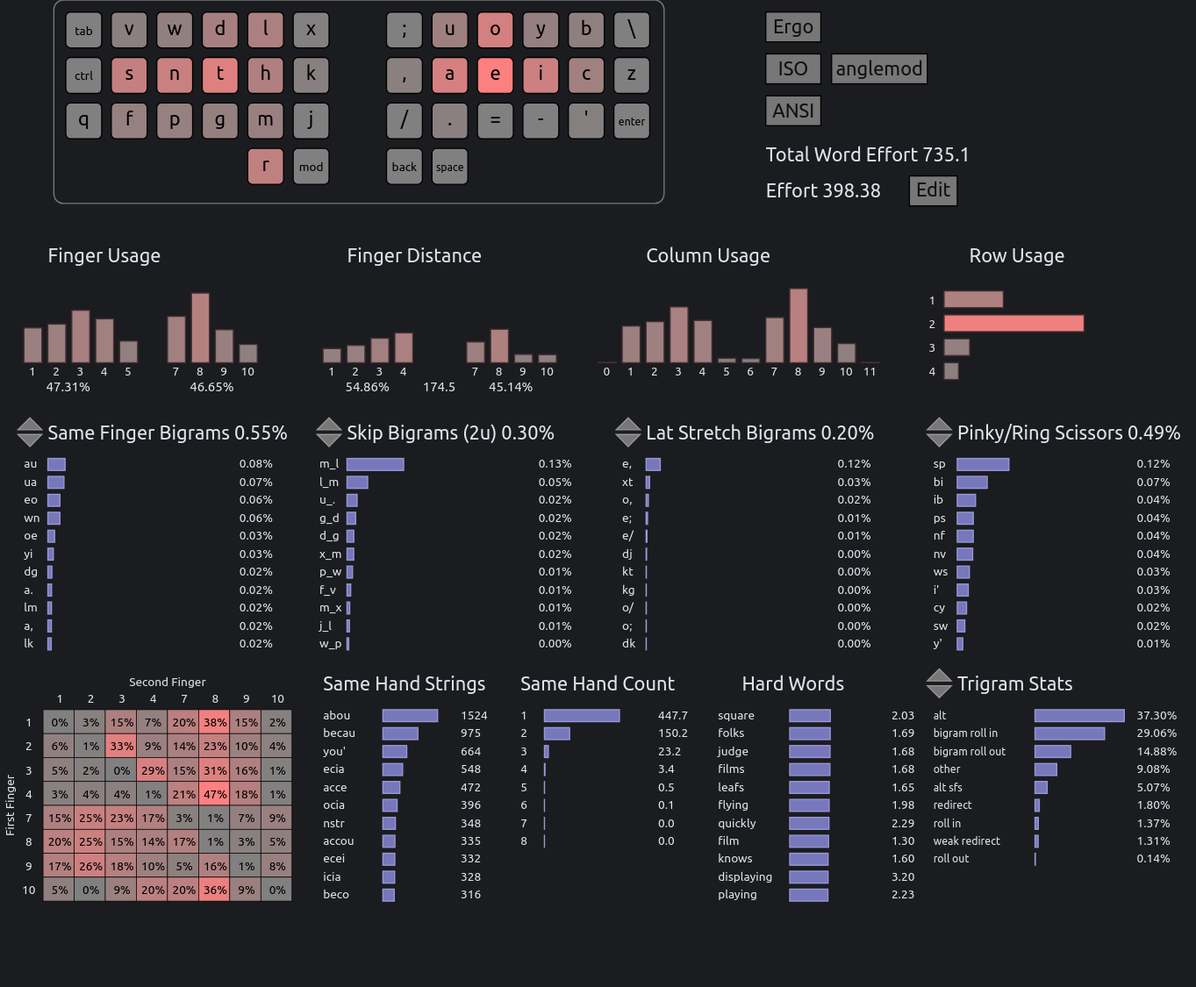
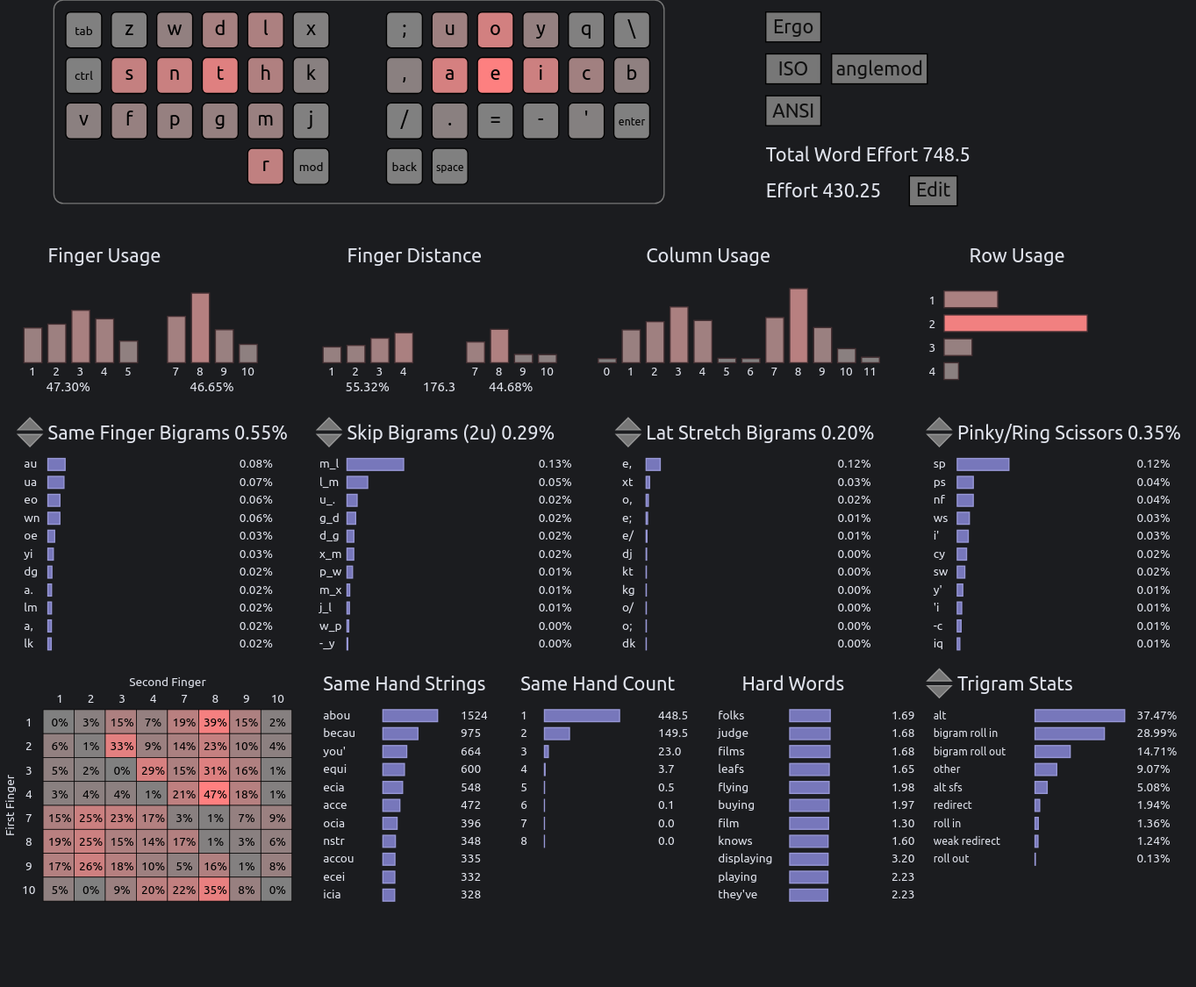
B/V to pinky home lateral, Q/Z to pinky upper row

diff --git a/README.md b/README.md
@@ -19,8 +19,8 @@ days (start Friday and use weekend), to unlock all letters in [KeyBr] training.
 
 ## Layout
 
-      b y o u ; x l d w v
-    z c i e a , k h t n s q
+      q y o u ; x l d w z
+    b c i e a , k h t n s v
       ' - = . / j m g p f
                 r
 
@@ -28,7 +28,7 @@ days (start Friday and use weekend), to unlock all letters in [KeyBr] training.
 
 * [Rationale](#rationale)
   * [Deviation: PF and WV](#deviation-pf-and-wv)
-  * [Deviation: Q and Z](#deviation-q-and-z)
+  * [Deviation: B and V](#deviation-b-and-v)
 * [Performance](#performance)
   * [Cyanophage analyzer](#cyanophage-analyzer)
   * [KeySolve analyzer](#keysolve-analyzer)
@@ -43,7 +43,6 @@ days (start Friday and use weekend), to unlock all letters in [KeyBr] training.
 ## Rationale
 
 * Q and Z are split apart onto different hands for balance and symmetry.
-  Q is placed on the consonant hand (like Engram) to avoid one-handed QU.
 
 * Apostrophe is away (on a different finger entirely) from YOU and I so
   it can be typed without same-finger bigrams such as `you'd` and `I'd`.
@@ -88,48 +87,57 @@ I'm _so glad_ this experiment worked out because it makes the layout a lot more
 comfortable for me in practice and it would also further reduce the barrier to
 entry for others seeking to switch over to Enthium from the Engrammer layout. :)
 
-### Deviation: Q and Z
+### Deviation: B and V
 
-Q and Z are swapped to be like Engram (with Q typed by the right pinky finger)
-in order to avoid one-handed QU sequences (in favor of hand alternation) which
-overwork the left pinky finger during [KeyBr] training and actual usage alike.
+B and V are rotated out from the upper row to the home row lateral in order to
+avoid reaching up with short pinky fingers or those [weakened by convention](
+https://reddit.com/r/KeyboardLayouts/comments/1fy8nve/_/lqulnww/ ).  Their keys
+are reassigned to the least frequent letters in the English language: Q and Z.
 
-This deviation incurred a modest increase in Oxey's analyzer's Total Redirects
-from 0.350% to 3.389%, along with a decrease in Onehands from 2.206% to 2.091%,
-and a significant increase in the Total Rolls score from 43.816% up to 44.055%.
-Similarly, Cyanophage's Total Word Effort score decreased from 735.9 to 735.1,
-along with a negligible increase in the Effort score from 398.34 up to 398.38,
-and with similarly modest differences in the Trigram Stats score distribution.
-In contrast, there was no change at all in the KeySolve analyzer's statistics!
+In the Cyanophage analyzer, this change reduces Pinky/Ring Scissors from 0.49%
+down to 0.35% (a massive drop!) and Skip Bigrams (2u) from 0.30% down to 0.29%.
+The other analyzers don't fully comprehend the placement of lateral pinky keys,
+as explained in the note at the top of each analyzer's respective subheading,
+but Oxey's analyzer reports a notable reduction in SFBs from 0.829% to 0.818%.
 
 ## Performance
 
 ### [Cyanophage analyzer][cNT]
 
+> **NOTE:** This analyzer currently has a limitation where it only supports
+> placing a letter on the left thumb and not on the right, so this layout is
+> mirrored horizontally for analysis.  Mirroring doesn't affect the results.
+
 ![Screenshot](stats/enthium/cyanophage.png)
 
 Overall stats:
-* Total Word Effort: 735.1
-* Effort:            398.38
+* Total Word Effort: 748.5
+* Effort:            430.25
 
 Finger usage:
 * Same Finger Bigrams: 0.55%
-* Skip Bigrams (2u):   0.30%
+* Skip Bigrams (2u):   0.29%
 * Lat Stretch Bigrams: 0.20%
-* Pinky/Ring Scissors: 0.49%
+* Pinky/Ring Scissors: 0.35%
 
 Trigram stats:
-* alt:             37.30%
-* bigram roll in:  29.06%
-* bigram roll out: 14.88%
-* other:           9.08%
-* alt sfs:         5.07%
-* redirect:        1.80%
-* roll in:         1.37%
-* weak redirect:   1.31%
-* roll out:        0.14%
+* alt:             37.47%
+* bigram roll in:  28.99%
+* bigram roll out: 14.71%
+* other:           9.07%
+* alt sfs:         5.08%
+* redirect:        1.94%
+* roll in:         1.36%
+* weak redirect:   1.24%
+* roll out:        0.13%
 
 ### [KeySolve analyzer](https://clemenpine.github.io/keysolve-web/)
+
+> **NOTE:** This analyzer currently doesn't support placing letters on lateral
+> home row pinky keys such as the traditional CapsLock key and the apostrophe,
+> so these results may not be accurate.  For instance, the SFB percentage here
+> assumes that R B V are all typed by the thumb whereas they're all really on
+> different fingers: with R on right thumb, B on left pinky, V on right pinky.
 
 ![Screenshot](stats/enthium/keysolve1.png)
 ![Screenshot](stats/enthium/keysolve2.png)
@@ -137,74 +145,91 @@ Trigram stats:
 
 Overall stats:
 
-    BIGRAMS     SFB: 0.83%      LSB: 0.41%      HSB: 5.64%      FSB: 0.37%
-    SKIPGRAMS   SFS: 6.56%      LSS: 0.85%      HSS: 5.50%      FSS: 0.48%
-    TRIGRAMS    ALT: 40.37%     ROL: 41.16%     ONE: 2.70%      RED: 1.90%
+    BIGRAMS     SFB: 0.98%      LSB: 0.41%      HSB: 4.82%      FSB: 0.36%
+    SKIPGRAMS   SFS: 6.98%      LSS: 0.85%      HSS: 4.70%      FSS: 0.42%
+    TRIGRAMS    ALT: 41.24%     ROL: 40.70%     ONE: 2.47%      RED: 1.66%
 
 Finger usage:
 
-    LEFT        LI: 13.77%      LM: 20.17%      LR: 8.84%       LP: 4.40%
-    RIGHT       RI: 13.12%      RM: 14.59%      RR: 10.60%      RP: 8.95%
-    TOTAL               LH: 47.18%                      RH: 52.82%
+    LEFT        LI: 13.77%      LM: 20.17%      LR: 8.84%       LP: 3.05%
+    RIGHT       RI: 13.12%      RM: 14.59%      RR: 10.60%      RP: 7.94%
+    TOTAL               LH: 45.83%                      RH: 54.17%
 
 Custom source for copy/paste:
 
-    b y o u ; x l d w v
+    q y o u ; x l d w z
     c i e a , k h t n s
     ' - = . / j m g p f
-    r z q
+    r b v
 
 ### [Oxey's analyzer](https://oxey.dev/playground/index.html)
+
+> **NOTE:** This analyzer currently doesn't support placing letters on lateral
+> home row pinky keys such as the traditional CapsLock key and the apostrophe,
+> so these results may not be accurate.  For instance, the SFB percentage here
+> assumes that B and V are typed by the left thumb whereas they're really on
+> different fingers: with B typed by the left pinky and V by the right pinky.
 
 ![Screenshot](stats/enthium/oxey.png)
 
 Overall stats:
-* Sfb:              0.829%
-* Dsfb:             6.534%
+* Sfb:              0.818%
+* Dsfb:             6.236%
 * Lsb:              0.319%
-* Inrolls:          29.183%
-* Outrolls:         14.872%
-* Total Rolls:      44.055%
-* Onehands:         2.091%
-* Alternates:       34.062%
-* Alternates (sfs): 8.035%
-* Total Alternates: 42.096%
-* Redirects:        2.146%
-* BadRedirects:     1.243%
-* Total Redirects:  3.389%
-* Other:            8.369%
+* Inrolls:          29.408%
+* Outrolls:         15.867%
+* Total Rolls:      45.274%
+* Onehands:         2.343%
+* Alternates:       31.891%
+* Alternates (sfs): 7.270%
+* Total Alternates: 39.161%
+* Redirects:        3.838%
+* BadRedirects:     1.024%
+* Total Redirects:  4.862%
+* Other:            8.359%
 * Invalid:          0.001%
 
 Finger usage:
 
-    finger 0:   5.02%   finger 9:       9.56%
+    finger 0:   3.63%   finger 9:       8.60% 
     finger 1:   9.25%   finger 8:       10.65%
     finger 2:   19.30%  finger 7:       14.56%
     finger 3:   13.11%  finger 6:       12.33%
 
-    Left hand:   46.68% Right hand:     47.10%
+    Left hand:   45.29% Right hand:     46.14%
     Left center: 1.211% Right center:   1.189%
 
     Home keys usage: 56.37%
 
 Sfb% per finger:
 
-    finger 0:   0.021%  finger 9:       0.028%
+    finger 0:   0.011%  finger 9:       0.024%
     finger 1:   0.071%  finger 8:       0.100%
     finger 2:   0.122%  finger 7:       0.051%
     finger 3:   0.322%  finger 6:       0.114%
 
 ### Comparison
 
+> **NOTE:** Oxey's analyzer currently doesn't support placing letters on lateral
+> home row pinky keys such as the traditional CapsLock key and the apostrophe,
+> so these results may not be accurate.  For instance, the SFB percentage here
+> assumes that B and V are typed by the left thumb whereas they're really on
+> different fingers: with B typed by the left pinky and V by the right pinky.
+> Instead, consider the [Cyanophage analyzer's results](#cyanophage-analyzer)
+> because it takes into account lateral pinky keys and one thumb letter key.
+
 The [keyboard layout community][rKL] commonly recommends [Pascal Getreuer's
 guide and comparison table][PGt] as a starting point for layout exploration,
 and you'll see that Enthium is among the best (statistically) layouts there:
 
-* 0.829% SFBs -- second place; same as Recurva 🥈
-* 0.319% LSBs -- first place; beats entire table! 🥇
-* 44.055% rolls -- beats MTGAP, Graphite, BEAKL-19, Engram, Dvorak, Halmak
-* 3.389% redirects -- surpassed only by Nerps, Graphite, Gallium, BEAKL-19
-* 5.35% pinky off -- beats Engram and Halmak
+* 0.818% SFBs -- second place; only surpassed by Focal 🥈
+* 0.319% LSBs -- first place; beats the entire table! 🥇
+* 45.274% rolls -- beats Nerps, Gallium, MTGAP, Graphite, Dvorak, Halmak, etc.
+* 4.862% redirects -- beats MTGAP, Sturdy, Recurva, APTv3, Canary, Colemak, etc.
+* 2.80% pinky off (excluding lateral) -- beats Graphite, Canary, Gallium, MTGAP, etc.
+  * `Q` (0.10%) + `'` (0.48%) + `Z` (0.10%) + `F` (2.12%)
+* 5.35% pinky off (including lateral) -- beats Engram and Halmak; surpassed by rest
+  * `Q` (0.10%) + `B` (1.49%) + `'` (0.48%) + `Z` (0.10%) + `V` (1.06%) + `F` (2.12%)
 
 [rKL]: https://www.reddit.com/r/KeyboardLayouts/
 [PGt]: https://getreuer.info/posts/keyboards/alt-layouts/index.html#which-alt-keyboard-layout-should-i-learn
@@ -219,79 +244,79 @@ For completeness, I've tabulated all [statistics for this and related layouts]( 
 
 | Analyzer   | Category  | Statistic           | [Enthium][cNT] | [Promethium][cPM] | [Engrammer][cNG] | [Dvorak][cDV] | [Colemak-DH][cCD] |
 | ---------- | --------- | ------------------- | -------------- | ----------------- | ---------------- | ------------- | ----------------- |
-| Oxey's     | Bigrams   | SFB                 | *0.829%*       | 0.868%            | 1.511%           | 2.779%        | 1.367%            |
-| Oxey's     | Bigrams   | DSFB                | 6.534%         | 6.761%            | 7.620%           | 6.979%        | 8.767%            |
-| Oxey's     | Bigrams   | LSB                 | *0.319%*       | 0.404%            | 0.671%           | 1.255%        | 1.975%            |
-| Oxey's     | Trigrams  | Inrolls             | 29.183%        | 29.333%           | 28.273%          | 23.820%       | 25.173%           |
-| Oxey's     | Trigrams  | Outrolls            | 14.872%        | 14.526%           | 14.050%          | 15.104%       | 20.940%           |
-| Oxey's     | Trigrams  | Total Rolls         | *44.055%*      | 43.858%           | 42.323%          | 38.924%       | 46.113%           |
-| Oxey's     | Trigrams  | Onehands            | 2.091%         | 2.189%            | 2.146%           | 0.624%        | 2.484%            |
-| Oxey's     | Trigrams  | Alternates          | 34.062%        | 33.770%           | 32.483%          | 35.769%       | 22.913%           |
-| Oxey's     | Trigrams  | Alternates (SFS)    | 8.035%         | 8.205%            | 8.752%           | 8.787%        | 7.461%            |
-| Oxey's     | Trigrams  | Total Alternates    | 42.096%        | 41.974%           | 41.235%          | 44.556%       | 30.375%           |
-| Oxey's     | Trigrams  | Redirects           | 2.146%         | 2.273%            | 3.103%           | 2.639%        | 9.081%            |
-| Oxey's     | Trigrams  | BadRedirects        | 1.243%         | 1.236%            | 1.386%           | 0.818%        | 1.498%            |
-| Oxey's     | Trigrams  | Total Redirects     | *3.389%*       | 3.509%            | 4.489%           | 3.458%        | 10.579%           |
-| Oxey's     | Trigrams  | Other               | 8.369%         | 8.468%            | 9.806%           | 12.437%       | 9.202%            |
+| Oxey's     | Bigrams   | SFB                 | 0.818%         | 0.868%            | 1.511%           | 2.779%        | 1.367%            |
+| Oxey's     | Bigrams   | DSFB                | 6.236%         | 6.761%            | 7.620%           | 6.979%        | 8.767%            |
+| Oxey's     | Bigrams   | LSB                 | 0.319%         | 0.404%            | 0.671%           | 1.255%        | 1.975%            |
+| Oxey's     | Trigrams  | Inrolls             | 29.408%        | 29.333%           | 28.273%          | 23.820%       | 25.173%           |
+| Oxey's     | Trigrams  | Outrolls            | 15.867%        | 14.526%           | 14.050%          | 15.104%       | 20.940%           |
+| Oxey's     | Trigrams  | Total Rolls         | 45.274%        | 43.858%           | 42.323%          | 38.924%       | 46.113%           |
+| Oxey's     | Trigrams  | Onehands            | 2.343%         | 2.189%            | 2.146%           | 0.624%        | 2.484%            |
+| Oxey's     | Trigrams  | Alternates          | 31.891%        | 33.770%           | 32.483%          | 35.769%       | 22.913%           |
+| Oxey's     | Trigrams  | Alternates (SFS)    | 7.270%         | 8.205%            | 8.752%           | 8.787%        | 7.461%            |
+| Oxey's     | Trigrams  | Total Alternates    | 39.161%        | 41.974%           | 41.235%          | 44.556%       | 30.375%           |
+| Oxey's     | Trigrams  | Redirects           | 3.838%         | 2.273%            | 3.103%           | 2.639%        | 9.081%            |
+| Oxey's     | Trigrams  | BadRedirects        | 1.024%         | 1.236%            | 1.386%           | 0.818%        | 1.498%            |
+| Oxey's     | Trigrams  | Total Redirects     | 4.862%         | 3.509%            | 4.489%           | 3.458%        | 10.579%           |
+| Oxey's     | Trigrams  | Other               | 8.359%         | 8.468%            | 9.806%           | 12.437%       | 9.202%            |
 | Oxey's     | Trigrams  | Invalid             | 0.001%         | 0.001%            | 0.001%           | 0.001%        | 1.248%            |
-| Oxey's     | Usage     | Finger 0            | 5.02%          | 9.56%             | 6.58%            | 8.50%         | 8.12%             |
+| Oxey's     | Usage     | Finger 0            | 3.63%          | 9.56%             | 6.58%            | 8.50%         | 8.12%             |
 | Oxey's     | Usage     | Finger 1            | 9.25%          | 10.65%            | 9.21%            | 8.72%         | 8.04%             |
 | Oxey's     | Usage     | Finger 2            | 19.30%         | 14.56%            | 19.47%           | 12.99%        | 11.55%            |
 | Oxey's     | Usage     | Finger 3            | 13.11%         | 12.33%            | 13.35%           | 14.95%        | 19.19%            |
 | Oxey's     | Usage     | Finger 6            | 12.33%         | 13.28%            | 16.04%           | 16.33%        | 18.88%            |
 | Oxey's     | Usage     | Finger 7            | 14.56%         | 19.77%            | 14.93%           | 13.73%        | 15.60%            |
 | Oxey's     | Usage     | Finger 8            | 10.65%         | 9.01%             | 10.31%           | 13.84%        | 10.11%            |
-| Oxey's     | Usage     | Finger 9            | 9.56%          | 4.62%             | 9.90%            | 10.59%        | 7.77%             |
-| Oxey's     | Usage     | Left hand           | 46.68%         | 47.10%            | 48.61%           | 45.16%        | 46.89%            |
-| Oxey's     | Usage     | Right hand          | 47.10%         | 46.68%            | 51.18%           | 54.49%        | 52.36%            |
+| Oxey's     | Usage     | Finger 9            | 8.60%          | 4.62%             | 9.90%            | 10.59%        | 7.77%             |
+| Oxey's     | Usage     | Left hand           | 45.29%         | 47.10%            | 48.61%           | 45.16%        | 46.89%            |
+| Oxey's     | Usage     | Right hand          | 46.14%         | 46.68%            | 51.18%           | 54.49%        | 52.36%            |
 | Oxey's     | Usage     | Left center         | 1.211%         | 1.189%            | 1.765%           | 9.208%        | 4.592%            |
 | Oxey's     | Usage     | Right center        | 1.189%         | 1.384%            | 1.294%           | 7.257%        | 3.393%            |
 | Oxey's     | Usage     | Home keys           | 56.37%         | 56.37%            | 56.37%           | 56.70%        | 62.31%            |
-| Oxey's     | SFB%      | Finger 0            | 0.021%         | 0.028%            | 0.012%           | 0.020%        | 0.041%            |
+| Oxey's     | SFB%      | Finger 0            | 0.011%         | 0.028%            | 0.012%           | 0.020%        | 0.041%            |
 | Oxey's     | SFB%      | Finger 1            | 0.071%         | 0.100%            | 0.089%           | 0.028%        | 0.047%            |
 | Oxey's     | SFB%      | Finger 2            | 0.122%         | 0.051%            | 0.230%           | 0.253%        | 0.186%            |
 | Oxey's     | SFB%      | Finger 3            | 0.322%         | 0.114%            | 0.591%           | 1.075%        | 0.219%            |
 | Oxey's     | SFB%      | Finger 6            | 0.114%         | 0.339%            | 0.380%           | 0.433%        | 0.388%            |
 | Oxey's     | SFB%      | Finger 7            | 0.051%         | 0.185%            | 0.053%           | 0.494%        | 0.341%            |
 | Oxey's     | SFB%      | Finger 8            | 0.100%         | 0.040%            | 0.098%           | 0.256%        | 0.137%            |
-| Oxey's     | SFB%      | Finger 9            | 0.028%         | 0.011%            | 0.058%           | 0.220%        | 0.007%            |
-| KeySolve   | Bigrams   | SFB                 | 0.83%          | 0.94%             | 1.56%            | 2.62%         | 1.49%             |
+| Oxey's     | SFB%      | Finger 9            | 0.024%         | 0.011%            | 0.058%           | 0.220%        | 0.007%            |
+| KeySolve   | Bigrams   | SFB                 | 0.98%          | 0.94%             | 1.56%            | 2.62%         | 1.49%             |
 | KeySolve   | Bigrams   | LSB                 | 0.41%          | 0.45%             | 0.98%            | 1.17%         | 2.21%             |
-| KeySolve   | Bigrams   | HSB                 | 5.64%          | 6.04%             | 3.02%            | 6.11%         | 5.93%             |
-| KeySolve   | Bigrams   | FSB                 | 0.37%          | 0.26%             | 0.30%            | 0.14%         | 0.37%             |
-| KeySolve   | Skipgrams | SFS                 | 6.56%          | 7.02%             | 7.50%            | 7.00%         | 7.95%             |
+| KeySolve   | Bigrams   | HSB                 | 4.82%          | 6.04%             | 3.02%            | 6.11%         | 5.93%             |
+| KeySolve   | Bigrams   | FSB                 | 0.36%          | 0.26%             | 0.30%            | 0.14%         | 0.37%             |
+| KeySolve   | Skipgrams | SFS                 | 6.98%          | 7.02%             | 7.50%            | 7.00%         | 7.95%             |
 | KeySolve   | Skipgrams | LSS                 | 0.85%          | 0.93%             | 1.34%            | 4.48%         | 1.75%             |
-| KeySolve   | Skipgrams | HSS                 | 5.50%          | 6.11%             | 6.91%            | 8.56%         | 6.49%             |
-| KeySolve   | Skipgrams | FSS                 | 0.48%          | 0.78%             | 0.81%            | 1.22%         | 0.78%             |
-| KeySolve   | Trigrams  | ALT                 | 40.37%         | 40.37%            | 39.59%           | 41.70%        | 27.58%            |
-| KeySolve   | Trigrams  | ROL                 | 41.16%         | 40.84%            | 39.35%           | 37.19%        | 42.78%            |
-| KeySolve   | Trigrams  | ONE                 | 2.70%          | 2.66%             | 2.65%            | 0.43%         | 2.45%             |
-| KeySolve   | Trigrams  | RED                 | 1.90%          | 1.78%             | 2.65%            | 2.25%         | 6.74%             |
+| KeySolve   | Skipgrams | HSS                 | 4.70%          | 6.11%             | 6.91%            | 8.56%         | 6.49%             |
+| KeySolve   | Skipgrams | FSS                 | 0.42%          | 0.78%             | 0.81%            | 1.22%         | 0.78%             |
+| KeySolve   | Trigrams  | ALT                 | 41.24%         | 40.37%            | 39.59%           | 41.70%        | 27.58%            |
+| KeySolve   | Trigrams  | ROL                 | 40.70%         | 40.84%            | 39.35%           | 37.19%        | 42.78%            |
+| KeySolve   | Trigrams  | ONE                 | 2.47%          | 2.66%             | 2.65%            | 0.43%         | 2.45%             |
+| KeySolve   | Trigrams  | RED                 | 1.66%          | 1.78%             | 2.65%            | 2.25%         | 6.74%             |
 | KeySolve   | Usage     | LI                  | 13.77%         | 13.91%            | 13.91%           | 14.56%        | 18.82%            |
 | KeySolve   | Usage     | LM                  | 20.17%         | 20.92%            | 20.30%           | 13.96%        | 10.18%            |
 | KeySolve   | Usage     | LR                  | 8.84%          | 8.70%             | 8.83%            | 9.55%         | 7.83%             |
-| KeySolve   | Usage     | LP                  | 4.40%          | 3.64%             | 5.72%            | 8.24%         | 7.63%             |
+| KeySolve   | Usage     | LP                  | 3.05%          | 3.64%             | 5.72%            | 8.24%         | 7.63%             |
 | KeySolve   | Usage     | RI                  | 13.12%         | 13.12%            | 16.52%           | 16.90%        | 20.00%            |
 | KeySolve   | Usage     | RM                  | 14.59%         | 14.59%            | 15.03%           | 13.35%        | 16.91%            |
 | KeySolve   | Usage     | RR                  | 10.60%         | 10.60%            | 10.08%           | 13.36%        | 10.46%            |
-| KeySolve   | Usage     | RP                  | 8.95%          | 8.95%             | 9.47%            | 10.08%        | 8.16%             |
-| KeySolve   | Total     | LH                  | 47.18%         | 47.18%            | 48.75%           | 46.31%        | 44.46%            |
-| KeySolve   | Total     | RH                  | 52.82%         | 52.82%            | 51.25%           | 53.69%        | 55.54%            |
-| Cyanophage | Summary   | Total Word Effort   | 735.1          | 732.3             | 899.8            | 1185.5        | 1048.2            |
-| Cyanophage | Summary   | Effort              | 398.38         | 398.07            | 457.44           | 769.78        | 535.05            |
+| KeySolve   | Usage     | RP                  | 7.94%          | 8.95%             | 9.47%            | 10.08%        | 8.16%             |
+| KeySolve   | Total     | LH                  | 45.83%         | 47.18%            | 48.75%           | 46.31%        | 44.46%            |
+| KeySolve   | Total     | RH                  | 54.17%         | 52.82%            | 51.25%           | 53.69%        | 55.54%            |
+| Cyanophage | Summary   | Total Word Effort   | 748.5          | 732.3             | 899.8            | 1185.5        | 1048.2            |
+| Cyanophage | Summary   | Effort              | 430.25         | 398.07            | 457.44           | 769.78        | 535.05            |
 | Cyanophage | Bigrams   | Same Finger Bigrams | 0.55%          | 0.58%             | 0.99%            | 1.87%         | 0.91%             |
-| Cyanophage | Bigrams   | Skip Bigrams (2u)   | 0.30%          | 0.36%             | 0.39%            | 0.45%         | 0.41%             |
+| Cyanophage | Bigrams   | Skip Bigrams (2u)   | 0.29%          | 0.36%             | 0.39%            | 0.45%         | 0.41%             |
 | Cyanophage | Bigrams   | Lat Stretch Bigrams | 0.20%          | 0.24%             | 0.41%            | 0.80%         | 1.27%             |
-| Cyanophage | Bigrams   | Pinky/Ring Scissors | 0.49%          | 0.42%             | 0.71%            | 0.40%         | 0.65%             |
-| Cyanophage | Trigrams  | Alt                 | 37.30%         | 36.98%            | 35.62%           | 39.08%        | 25.43%            |
-| Cyanophage | Trigrams  | Alt SFS             | 5.07%          | 5.27%             | 5.93%            | 5.85%         | 5.47%             |
-| Cyanophage | Trigrams  | Roll in             | 1.37%          | 1.37%             | 1.82%            | 0.86%         | 1.50%             |
-| Cyanophage | Trigrams  | Roll out            | 0.14%          | 0.11%             | 0.29%            | 0.27%         | 0.98%             |
-| Cyanophage | Trigrams  | Bigram roll in      | 29.06%         | 29.18%            | 28.14%           | 23.51%        | 25.18%            |
-| Cyanophage | Trigrams  | Bigram roll out     | 14.88%         | 14.56%            | 14.03%           | 15.14%        | 21.55%            |
-| Cyanophage | Trigrams  | Redirect            | 1.80%          | 2.03%             | 3.05%            | 2.57%         | 9.22%             |
-| Cyanophage | Trigrams  | Weak redirect       | 1.31%          | 1.30%             | 1.40%            | 0.28%         | 1.52%             |
-| Cyanophage | Trigrams  | Other               | 9.08%          | 9.20%             | 9.72%            | 12.44%        | 9.17%             |
+| Cyanophage | Bigrams   | Pinky/Ring Scissors | 0.35%          | 0.42%             | 0.71%            | 0.40%         | 0.65%             |
+| Cyanophage | Trigrams  | Alt                 | 37.47%         | 36.98%            | 35.62%           | 39.08%        | 25.43%            |
+| Cyanophage | Trigrams  | Alt SFS             | 5.08%          | 5.27%             | 5.93%            | 5.85%         | 5.47%             |
+| Cyanophage | Trigrams  | Roll in             | 1.36%          | 1.37%             | 1.82%            | 0.86%         | 1.50%             |
+| Cyanophage | Trigrams  | Roll out            | 0.13%          | 0.11%             | 0.29%            | 0.27%         | 0.98%             |
+| Cyanophage | Trigrams  | Bigram roll in      | 28.99%         | 29.18%            | 28.14%           | 23.51%        | 25.18%            |
+| Cyanophage | Trigrams  | Bigram roll out     | 14.71%         | 14.56%            | 14.03%           | 15.14%        | 21.55%            |
+| Cyanophage | Trigrams  | Redirect            | 1.94%          | 2.03%             | 3.05%            | 2.57%         | 9.22%             |
+| Cyanophage | Trigrams  | Weak redirect       | 1.24%          | 1.30%             | 1.40%            | 0.28%         | 1.52%             |
+| Cyanophage | Trigrams  | Other               | 9.07%          | 9.20%             | 9.72%            | 12.44%        | 9.17%             |
 
 ## Installation
 
